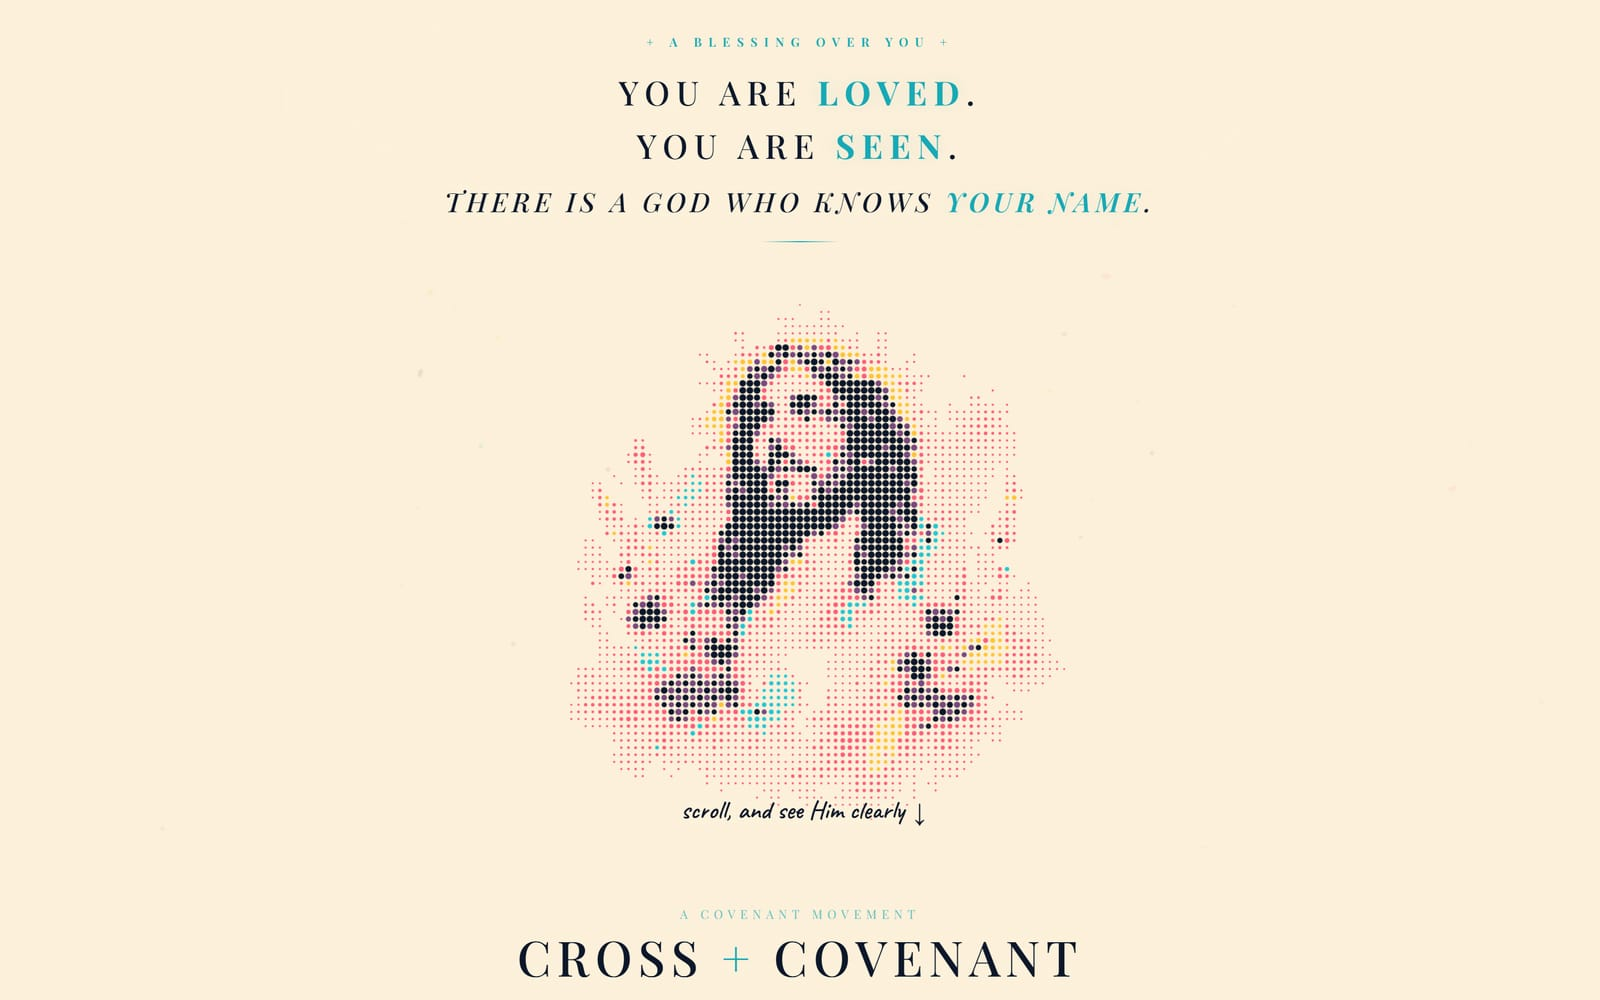
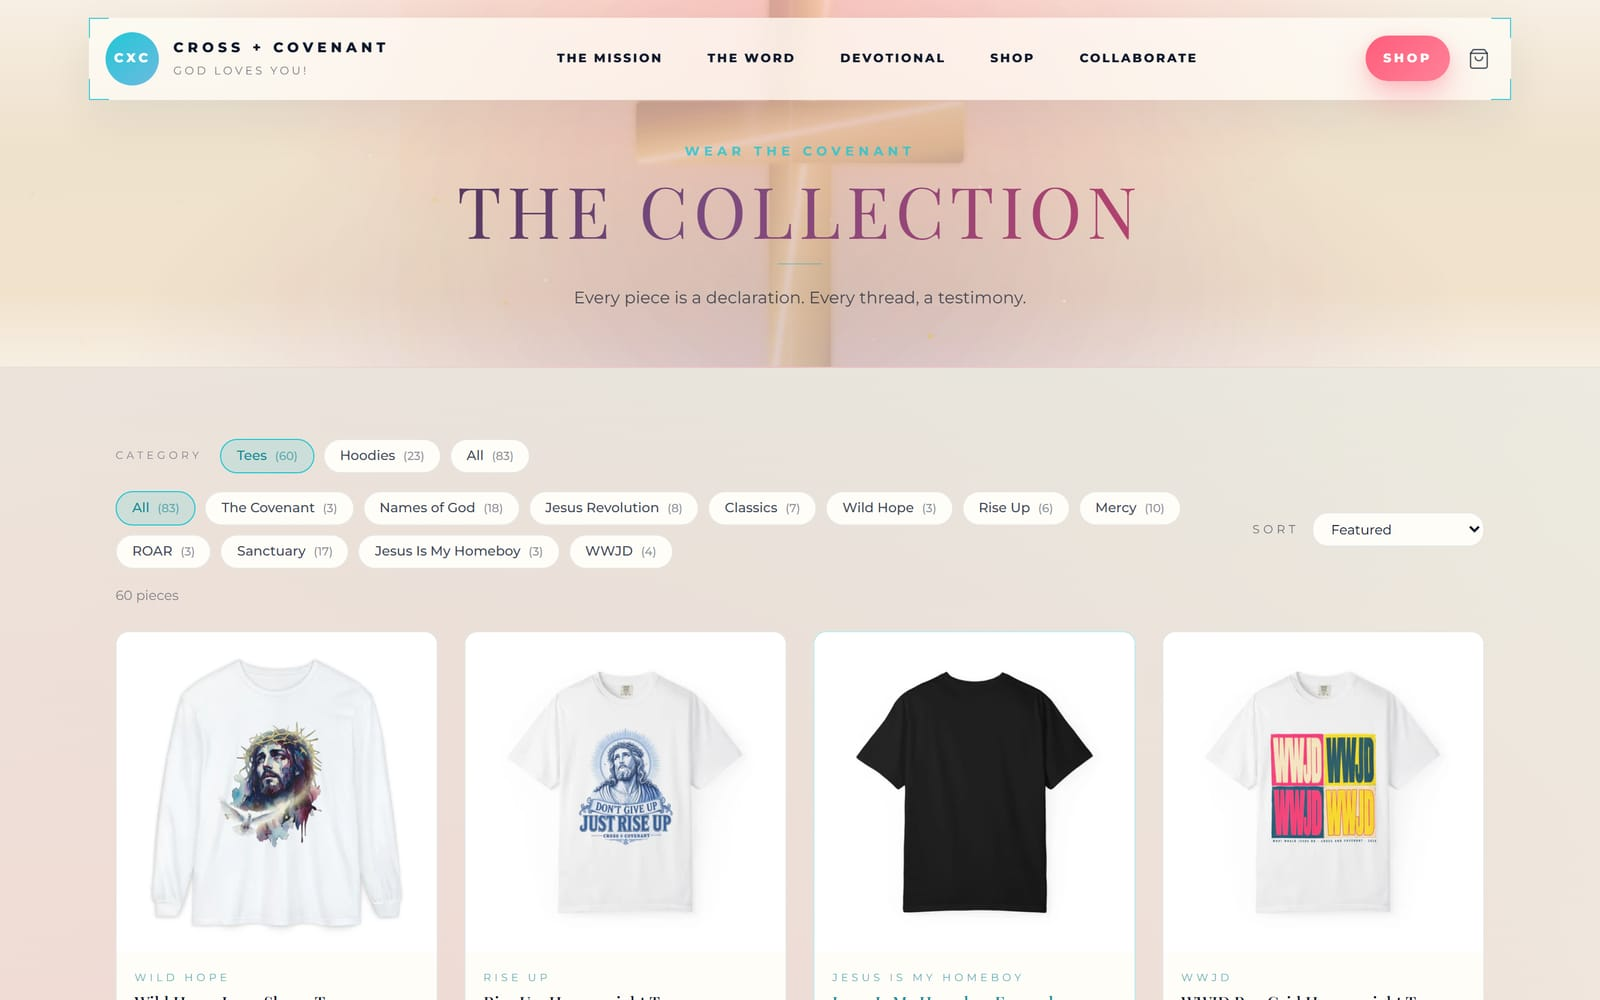
feat(websites): curate reel, lead with our own site, add stores section
- Reel: drop Hall Roofing, JR Tree, Porsha Lee, Mustard Seed Co.; lead
  with modernmustardseed.com ("this very site").
- Cross + Covenant card now shows the live store (the collection grid),
  linked concept updated to the shop; reads as a storefront.
- New "Online stores // We build those too" section: full store build
  (catalog, cart, checkout, orders wired to the command center), priced
  as its own build (quoted per catalog), with the CXC store in living
  color. Display-only, no invented price.

diff --git a/app/websites/page.tsx b/app/websites/page.tsx
@@ -9,6 +9,7 @@ import WorkShowcase from '@/components/websites/WorkShowcase';
 
 const site = DEMO_PRODUCTS.site;
 const HERO = workByKey['linen-fresh'];
+const STORE = workByKey['cross-covenant'];
 
 export const metadata = buildMetadata({
   title: 'Small Business Websites That Work: not a brochure, a working engine',
@@ -216,6 +217,89 @@ export default function WebsitesPage() {
                 <p className="font-body text-[13px] text-[#161616]/70 mt-1.5 leading-relaxed">{m.desc}</p>
               </div>
             ))}
+          </div>
+        </section>
+
+        {/* ── Stores: we build those too ── */}
+        <section>
+          <div className="grid lg:grid-cols-2 gap-10 lg:gap-14 items-center">
+            <div className="order-2 lg:order-1">
+              <p className="font-mono font-bold text-[11px] tracking-[0.18em] text-[#C4160B] uppercase">
+                Online stores // We build those too
+              </p>
+              <h2 className="font-display italic font-extrabold text-4xl md:text-5xl mt-3 leading-[1.02]">
+                Need to sell? We build the whole store.
+              </h2>
+              <p className="font-body text-[15px] text-[#161616]/75 mt-4 leading-relaxed">
+                A real online store, not a plugin bolted onto a template. Full catalog, cart, and secure checkout,
+                inventory and shipping wired up, and the command center tracking every order the moment it lands.
+                Designed to look like the brand, built to actually sell.
+              </p>
+              <ul className="mt-6 grid sm:grid-cols-2 gap-x-6 gap-y-3">
+                {[
+                  'Full product catalog + collections',
+                  'Cart + secure checkout',
+                  'Inventory, shipping, and taxes',
+                  'Orders wired to your command center',
+                  'Discounts, email, abandoned-cart',
+                  'You own the store and the data',
+                ].map((f) => (
+                  <li key={f} className="flex items-start gap-2.5 font-body text-[13.5px] text-[#161616]/80">
+                    <span className="mt-[7px] h-1.5 w-1.5 rounded-full bg-[#C4160B] shrink-0" aria-hidden />
+                    {f}
+                  </li>
+                ))}
+              </ul>
+              <div className="mt-7 flex items-center gap-3 border-2 border-[#161616] bg-white rounded-xl px-4 py-3 shadow-[4px_4px_0_0_#161616] max-w-md">
+                <span className="font-mono font-bold text-[10px] uppercase tracking-[0.16em] text-[#C4160B] shrink-0">
+                  Priced as its own build
+                </span>
+                <span className="font-body text-[12.5px] text-[#161616]/75 leading-snug">
+                  More than a site. Quoted per catalog after a free call.
+                </span>
+              </div>
+              <div className="mt-7">
+                <Link
+                  href="/book"
+                  className="inline-flex items-center gap-2 bg-[#161616] text-[#F5B700] border-2 border-[#161616] rounded-full px-7 py-4 font-sans font-bold uppercase tracking-[0.14em] text-[12px] shadow-[5px_5px_0_0_#F5B700] hover:-translate-y-0.5 transition-transform"
+                >
+                  Scope my store →
+                </Link>
+              </div>
+            </div>
+
+            {/* The store, in living color (display only) */}
+            <div className="order-1 lg:order-2">
+              <div className="rounded-2xl border-2 border-[#161616] bg-white shadow-[8px_8px_0_0_#161616] overflow-hidden">
+                <div className="flex items-center gap-2 px-4 h-10 border-b-2 border-[#161616] bg-[#FBF6EA]">
+                  <span className="flex gap-1.5">
+                    {['#E0301E', '#F5B700', '#8FA98F'].map((c) => (
+                      <span key={c} className="h-3 w-3 rounded-full border border-[#161616]" style={{ background: c }} />
+                    ))}
+                  </span>
+                  <span className="ml-2 flex-1 truncate rounded-full border border-[#161616]/30 bg-white px-3 py-1 font-mono text-[11px] text-[#161616]/65">
+                    crossandcovenant.co
+                  </span>
+                </div>
+                <div className="relative">
+                  <Image
+                    src={STORE.img}
+                    alt="Cross + Covenant, a full online store designed and built by Modern Mustard Seed, with catalog, cart, and checkout wired to the command center"
+                    width={1600}
+                    height={1000}
+                    sizes="(min-width: 1024px) 50vw, 100vw"
+                    className="block w-full h-auto"
+                  />
+                  <div className="absolute top-3 right-3 max-w-[62%] rounded-xl border-2 border-[#161616] bg-[#FBF6EA] px-3.5 py-2 shadow-[3px_3px_0_0_#F5B700]">
+                    <p className="font-mono text-[8px] uppercase tracking-[0.16em] text-[#C4160B] font-bold">New order</p>
+                    <p className="font-sans text-[11.5px] font-bold text-[#161616] mt-0.5 leading-snug">Filed to your command center</p>
+                  </div>
+                </div>
+              </div>
+              <p className="font-body text-[13px] text-[#161616]/70 mt-3">
+                A real store we built for Cross + Covenant. 80+ pieces, cart to checkout, orders in the command center.
+              </p>
+            </div>
           </div>
         </section>
 

diff --git a/data/website-work.ts b/data/website-work.ts
@@ -15,16 +15,13 @@ export type WorkSite = {
 };
 
 export const WORK_SITES: WorkSite[] = [
+  { key: 'modern-mustard-seed', name: 'Modern Mustard Seed', trade: 'AI web studio', place: 'This very site', img: '/work-shots/modern-mustard-seed.jpg', url: 'https://modernmustardseed.com' },
   { key: 'linen-fresh', name: 'Linen Fresh', trade: 'Laundromat', place: 'Las Vegas, NV', img: '/work-shots/linen-fresh.jpg', url: 'https://modernmustardseed.com/demo/site/f1a7cacd-d7d9-4384-894f-8651a687be53' },
-  { key: 'hall-roofing', name: 'Hall Roofing', trade: 'Roofing', place: 'Bonifay, FL', img: '/work-shots/hall-roofing.jpg', url: 'https://hall-roofing-website.vercel.app' },
-  { key: 'mustard-seed-supply', name: 'The Mustard Seed Co.', trade: 'Heirloom seed shop', place: 'Kalispell, MT', img: '/work-shots/mustard-seed-supply.jpg', url: 'https://mustard-seed-supply.vercel.app' },
-  { key: 'porsha-lee', name: 'Porsha Lee', trade: 'Auto paint & body', place: 'Tallahassee, FL', img: '/work-shots/porsha-lee.jpg', url: 'https://modernmustardseed.com/demo/site/cd196f09-7e0e-4fc4-af6d-56e0bb6900e0' },
   { key: 'dd-landscaping', name: 'D&D Landscaping', trade: 'Landscaping', place: 'Tallahassee, FL', img: '/work-shots/dd-landscaping.jpg', url: 'https://ddlandscaping.pro' },
-  { key: 'jr-tree', name: 'JR Tree Removal', trade: 'Tree service', place: 'Mobile, AL', img: '/work-shots/jr-tree.jpg', url: 'https://jr-tree-website.vercel.app' },
   { key: 'fiat-lux', name: 'Fiat Lux Design', trade: 'AI staging studio', place: 'Real estate staging', img: '/work-shots/fiat-lux.jpg', url: 'https://fiatluxdesign.co' },
   { key: 'chinatown', name: 'Chinatown', trade: 'Restaurant', place: 'Kalispell, MT', img: '/work-shots/chinatown.jpg', url: 'https://chinatown-kalispell.vercel.app' },
   { key: 'wild-hope', name: 'Wild Hope', trade: 'Lake retreat', place: 'Flathead Lake, MT', img: '/work-shots/wild-hope.jpg', url: 'https://wildhopehq.com' },
-  { key: 'cross-covenant', name: 'Cross + Covenant', trade: 'Faith apparel', place: 'The storefront', img: '/work-shots/cross-covenant.jpg', url: 'https://crossandcovenant.co' },
+  { key: 'cross-covenant', name: 'Cross + Covenant', trade: 'Faith apparel store', place: 'Cart to checkout', img: '/work-shots/cross-covenant.jpg', url: 'https://crossandcovenant.co/shop' },
   { key: 'lago-society', name: 'Lago Society', trade: 'Fashion boutique', place: 'On the lake', img: '/work-shots/lago-society.jpg', url: 'https://lagosociety.com' },
   { key: 'parker-tidewater', name: 'Parker Tidewater', trade: 'Seafood wholesale', place: 'Gulf to Kansas City', img: '/work-shots/parker-tidewater.jpg', url: 'https://parker-tidewater.vercel.app' },
   { key: 'bare-earth', name: 'Bare Earth', trade: 'Landscaping', place: 'Flathead Valley, MT', img: '/work-shots/bare-earth.jpg', url: 'https://bare-earth.vercel.app' },